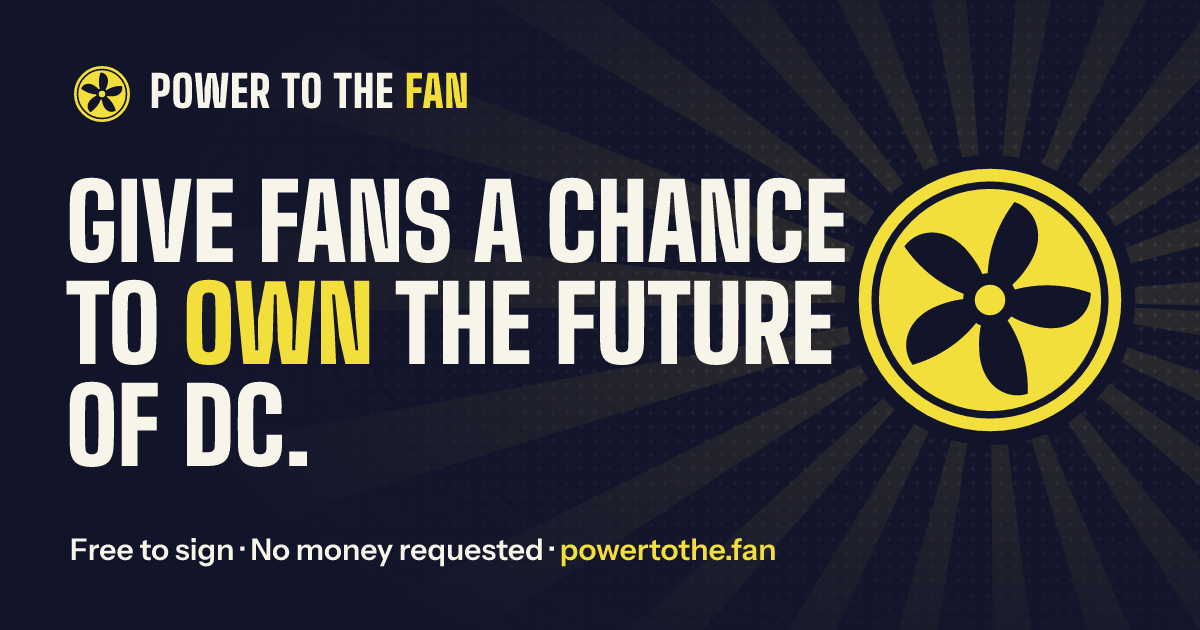
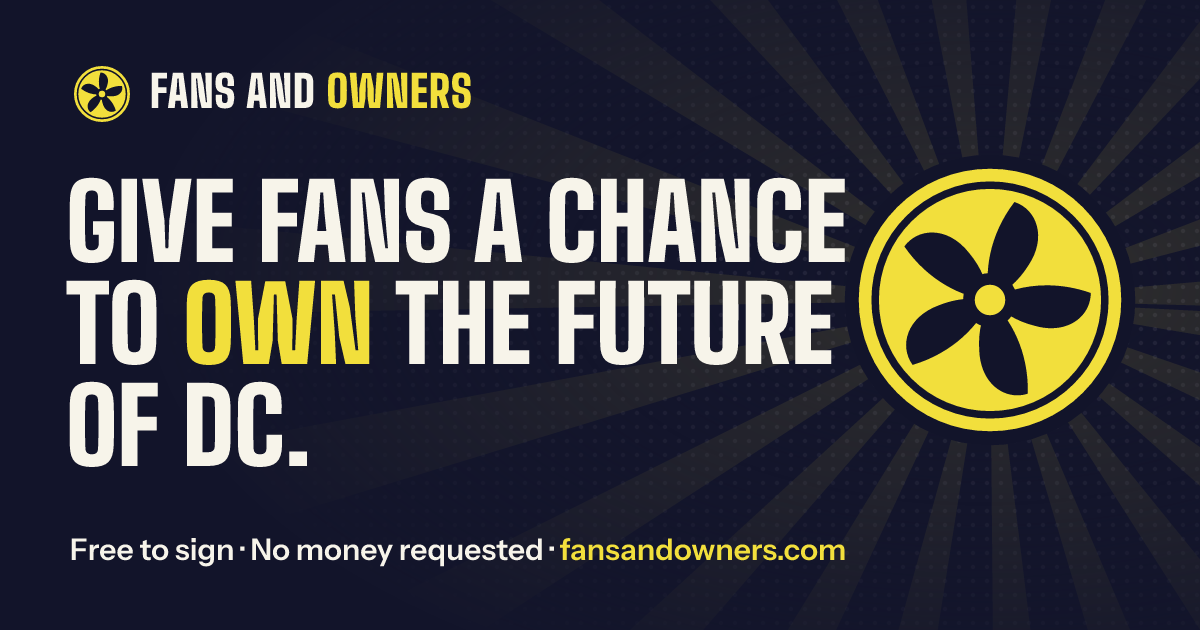
Rename to Fans and Owners (fansandowners.com)

Changed region(s): [[0.1233, 0.0905, 0.4008, 0.181], [0.4625, 0.8444, 0.7092, 0.9048]]

diff --git a/src/site.config.ts b/src/site.config.ts
@@ -1,7 +1,7 @@
 /** Everything that might change lives here. */
 export const SITE = {
-  name: 'Power to the Fan',
-  domain: 'powertothe.fan',
+  name: 'Fans and Owners',
+  domain: 'fansandowners.com',
   description:
     'A fan petition asking the current owners of DC to consider a future sale to a company owned by individual fans. Free to sign. No money requested.',
   petitionUrl: 'https://www.change.org/p/let-the-fans-own-dc',

diff --git a/src/styles/global.css b/src/styles/global.css
@@ -1,4 +1,4 @@
-/* Power to the Fan: design system.
+/* Fans and Owners: design system.
    Modern CSS only, no framework: OKLCH color, cascade layers, container queries,
    scroll-driven animations, cross-document view transitions, popover, :has(),
    animated <details>, @property. Everything degrades gracefully. */

diff --git a/ops/signatures.py b/ops/signatures.py
@@ -14,7 +14,7 @@ OUT = os.environ.get("SIGNATURES_OUT", "dist/signatures.json")
 
 
 def fetch():
-    req = urllib.request.Request(PETITION, headers={"User-Agent": "Mozilla/5.0 (powertothe.fan signature tracker)"})
+    req = urllib.request.Request(PETITION, headers={"User-Agent": "Mozilla/5.0 (fansandowners.com signature tracker)"})
     with urllib.request.urlopen(req, timeout=30) as r:
         html = r.read().decode("utf-8", "replace")
     m = re.search(r'"signatureCount":\{[^}]*?"total":(\d+)[^}]*\}', html)

diff --git a/README.md b/README.md
@@ -1,4 +1,4 @@
-# Power to the Fan
+# Fans and Owners
 
 A one-page site for the fan petition **[Give Fans a Chance to Own the Future of DC](https://www.change.org/p/let-the-fans-own-dc)**.
 
